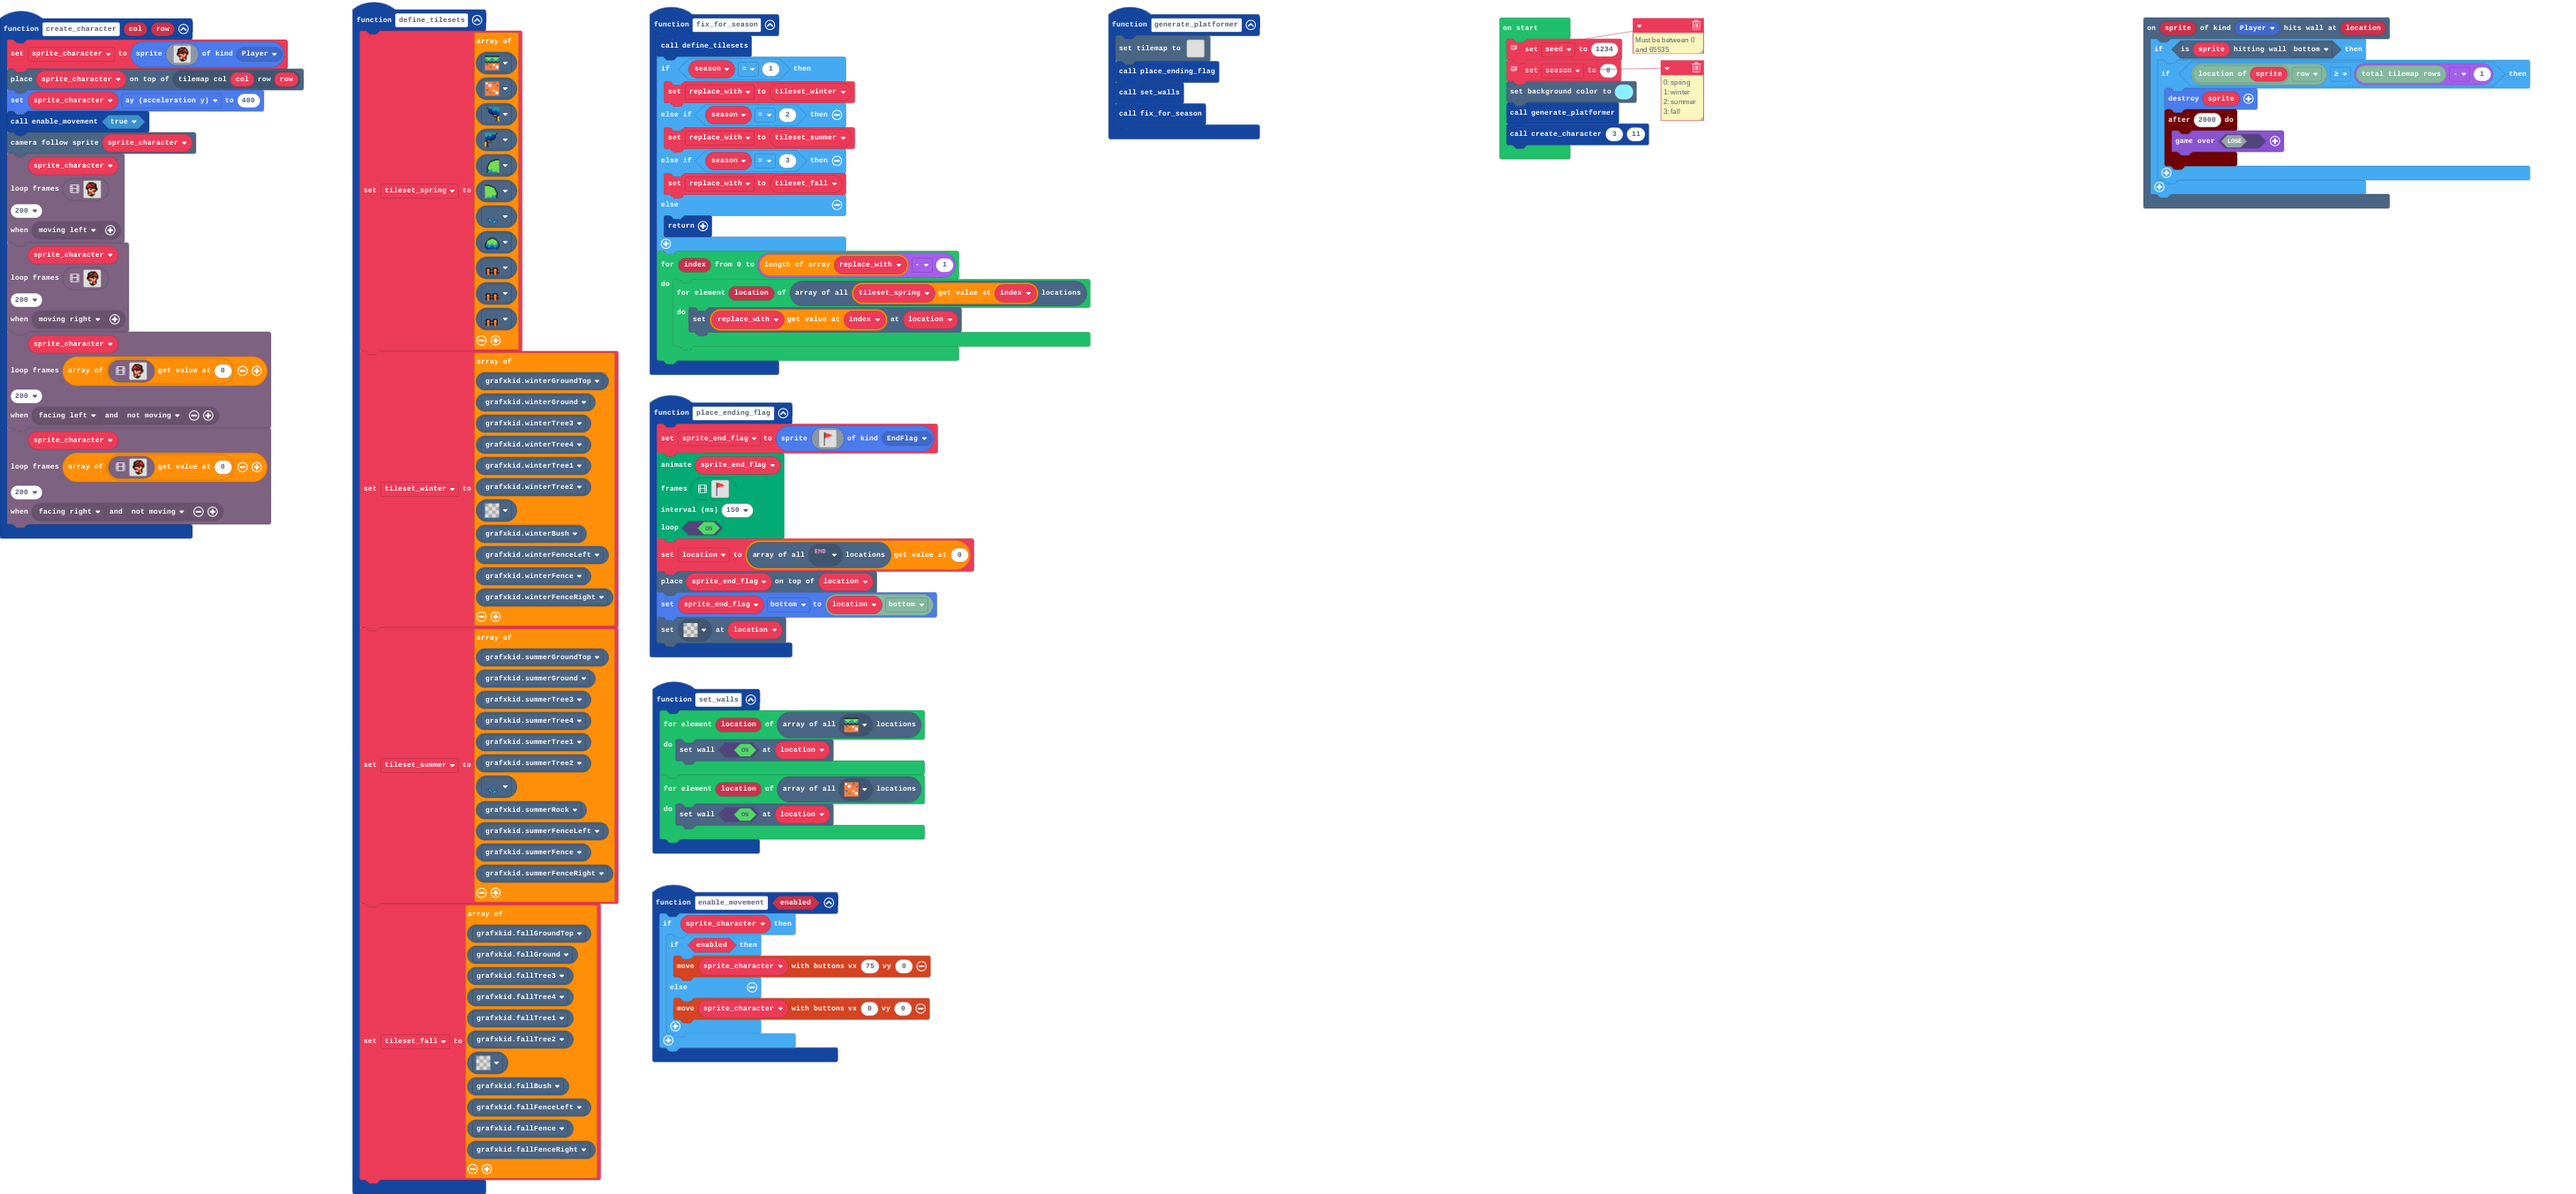
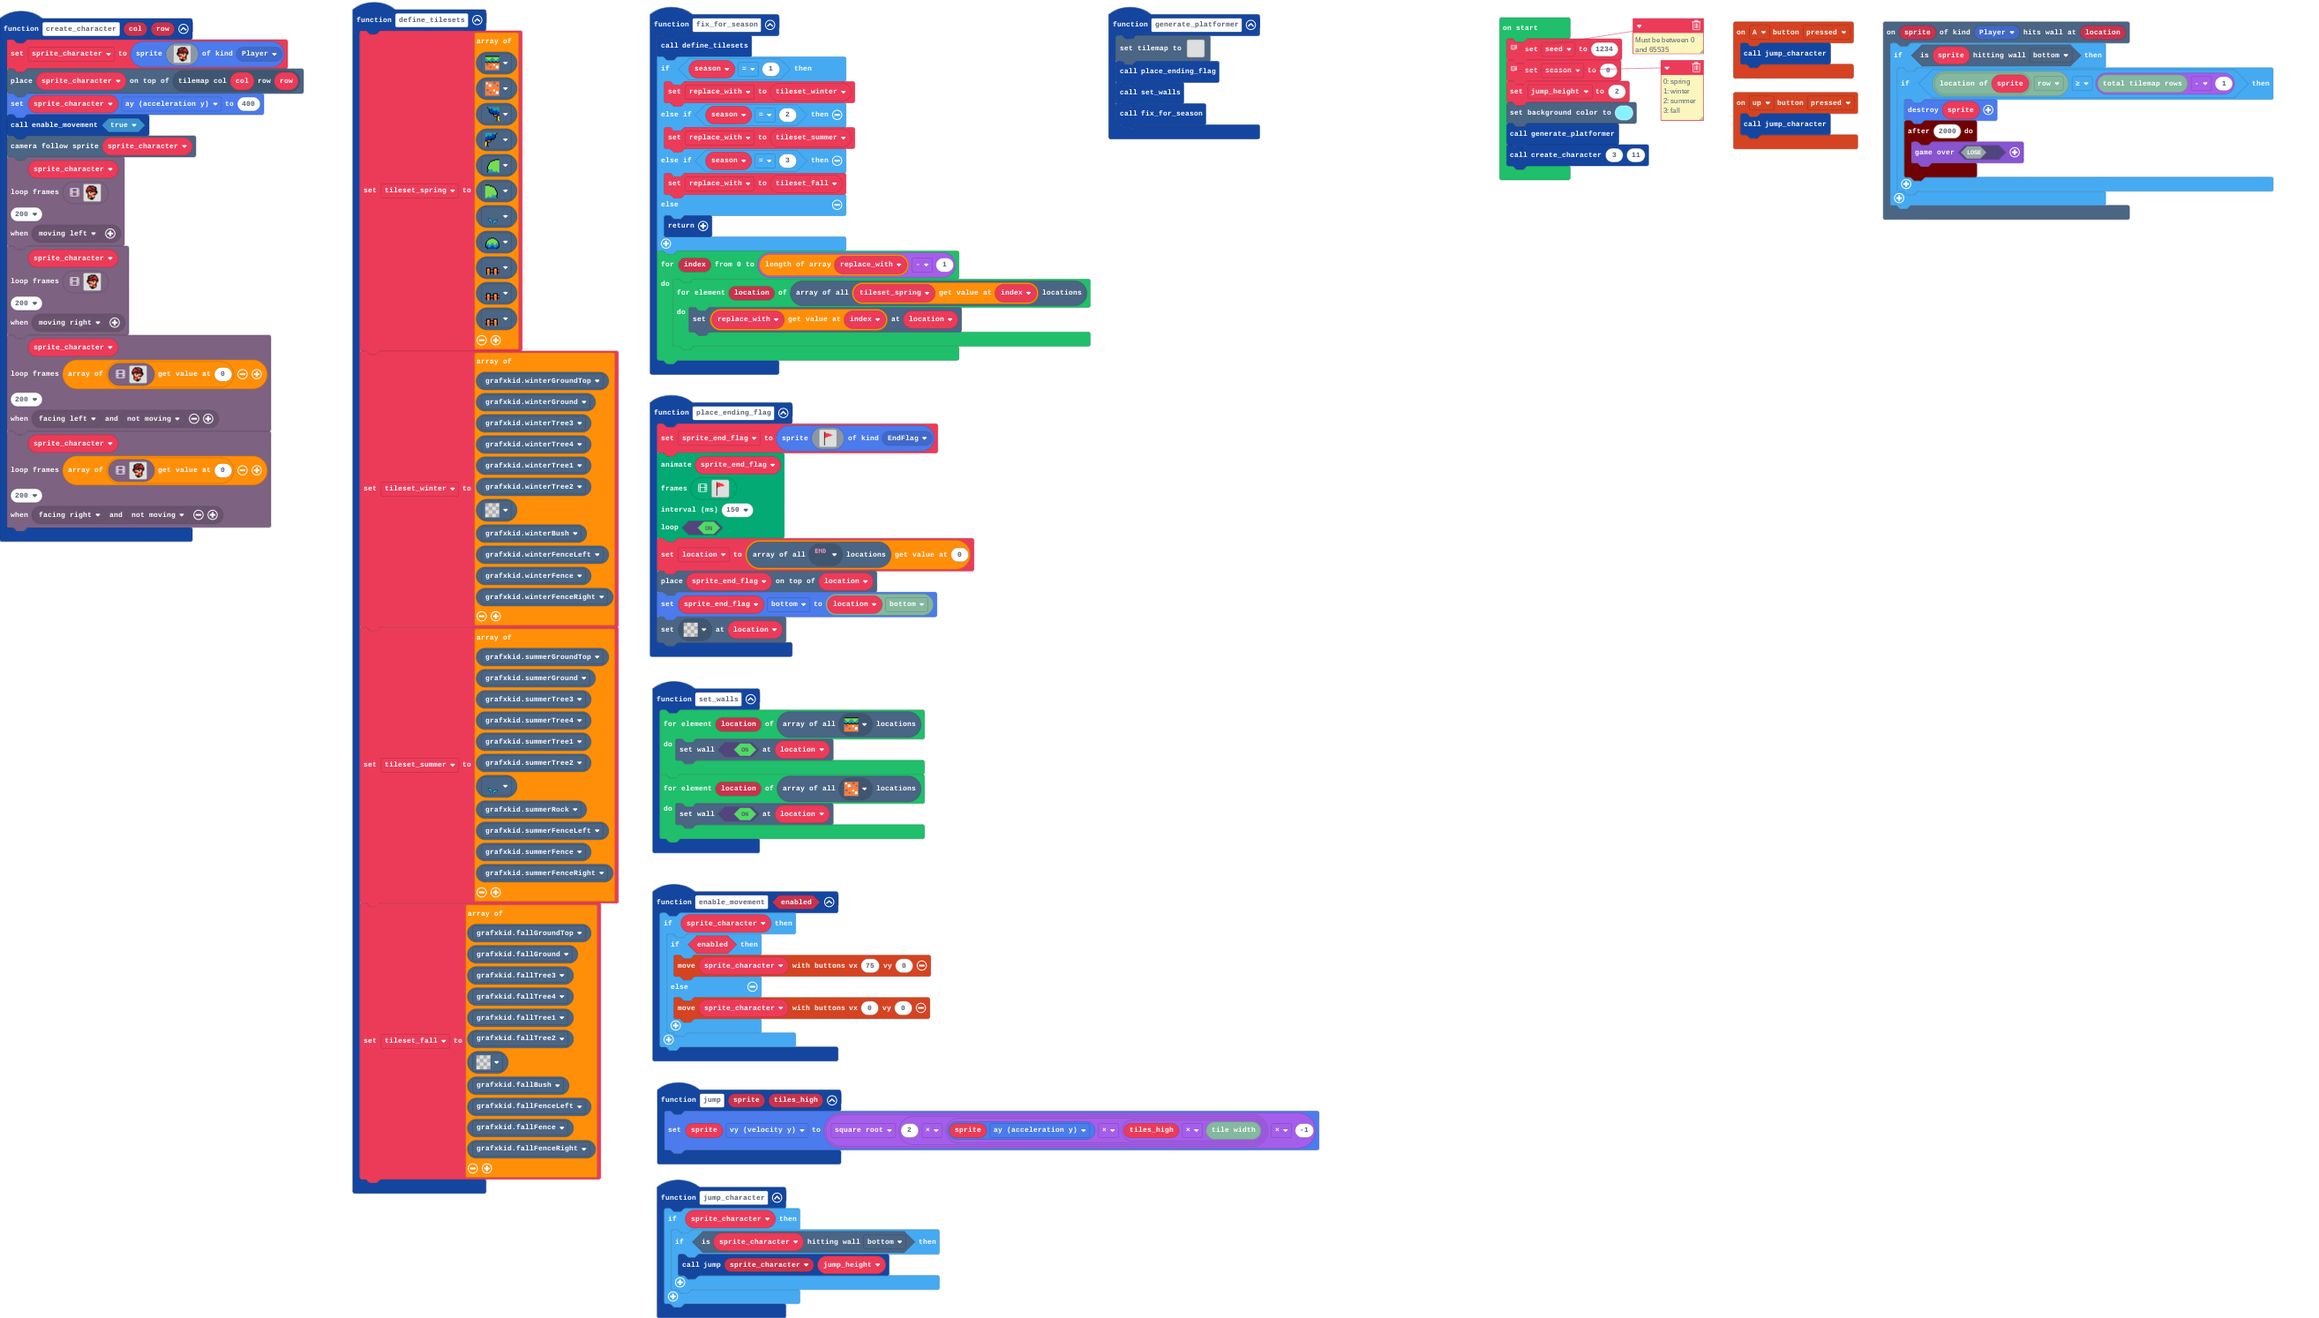
Can jump

Changed region(s): [[0.0, 0.0, 0.5928, 1.0], [0.4056, 0.0, 0.9985, 0.1863]]

diff --git a/main.ts b/main.ts
@@ -11,6 +11,19 @@ scene.onHitWall(SpriteKind.Player, function (sprite, location) {
         }
     }
 })
+controller.up.onEvent(ControllerButtonEvent.Pressed, function () {
+    jump_character()
+})
+function jump_character () {
+    if (sprite_character) {
+        if (sprite_character.isHittingTile(CollisionDirection.Bottom)) {
+            jump(sprite_character, jump_height)
+        }
+    }
+}
+controller.A.onEvent(ControllerButtonEvent.Pressed, function () {
+    jump_character()
+})
 function create_character (col: number, row: number) {
     sprite_character = sprites.create(assets.image`player_right`, SpriteKind.Player)
     tiles.placeOnTile(sprite_character, tiles.getTileLocation(col, row))
@@ -75,6 +88,9 @@ function set_walls () {
     for (let location of tiles.getTilesByType(grafxkid.springGround)) {
         tiles.setWallAt(location, true)
     }
+}
+function jump (sprite: Sprite, tiles_high: number) {
+    sprite.vy = Math.sqrt(2 * (sprite.ay * (tiles_high * tiles.tileWidth()))) * -1
 }
 function generate_platformer () {
     tiles.setTilemap(tilemap`level_template`)
@@ -157,6 +173,7 @@ let tileset_summer: Image[] = []
 let tileset_winter: Image[] = []
 let replace_with: Image[] = []
 let sprite_character: Sprite = null
+let jump_height = 0
 let season = 0
 // Must be between 0 and 65535
 let seed = 1234
@@ -165,6 +182,7 @@ let seed = 1234
 // 2: summer
 // 3: fall
 season = 0
+jump_height = 2
 scene.setBackgroundColor(9)
 generate_platformer()
 create_character(3, 11)
